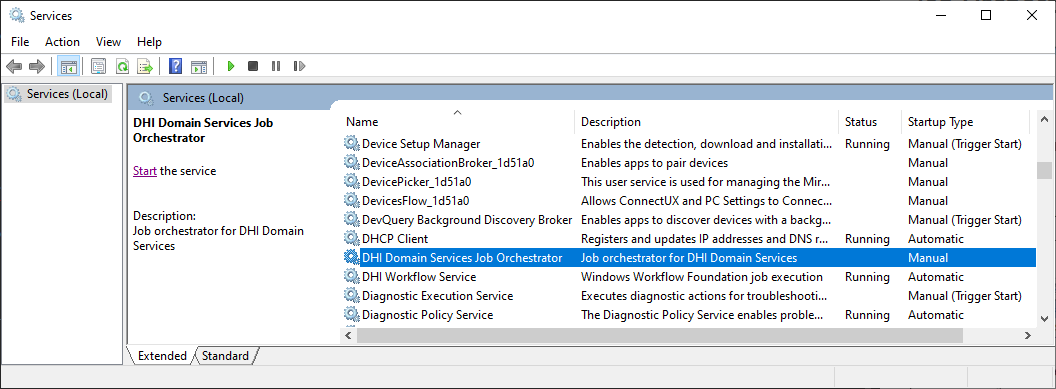
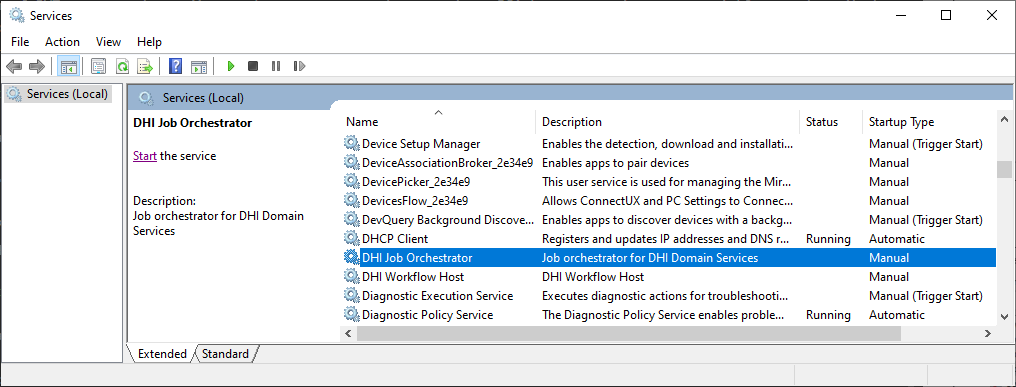
Renamed to DHI Job Orchestrator. Don't start Job Orchestrator on installation. Updated Readme.md

diff --git a/Source/JobOrchestratorWinService/WindowsBackgroundService.cs b/Source/JobOrchestratorWinService/WindowsBackgroundService.cs
@@ -21,7 +21,7 @@ namespace JobOrchestratorWinService
             _logger.Log(new LogEntry(cleaningLogLevel, $"Scalars are {scalarsStatus}.", ServiceName));
         }
 
-        public static string ServiceName => "DHI Domain Services Job Orchestrator";
+        public static string ServiceName => "DHI Job Orchestrator";
 
         public override Task StartAsync(CancellationToken cancellationToken)
         {

diff --git a/README.md b/README.md
@@ -19,7 +19,7 @@ The Authorization Server in **AuthorizationServer.sln** uses a pair of RSA signi
 
 To build and run the Authorization Server, use the **BuildAndRun.bat** file. 
 
-## Web Server
+### Web Server
 
 The web API is configured with a PostgreSQL database. You have to create an environment variable called "PostgreSqlConnectionString" with the connection string.
 
@@ -27,9 +27,11 @@ The web API is configured with a PostgreSQL database. You have to create an envi
 
 To build and run the Web Server in **WebApi.sln**, use the **BuildAndRun.bat** file.
 
-## Job Orchestrator
+### Job Orchestrator
 
-To install the Job Orchestrator in **JobOrchestratorWinService.sln** as a Windows Service run **Install.bat**
+Publish the Job Orchestrator in **JobOrchestratorWinService.sln** using the [`dotnet publish`](https://docs.microsoft.com/en-us/dotnet/core/tools/dotnet-publish) command (or use the **Publish...** wizard from within Visual Studio).
+
+From the publish folder, run **Install.bat** to install the Job Orchestrator as a Windows Service.
 
 > NOTE: Remember to force administrator privileges.
 
@@ -37,21 +39,23 @@ Once installed, the Job Orchestrator is managed (start/stop) through the standar
 
 ![](Images/windows-services.png)
 
-The Job Orchestrator is configured to log to the **Event Viewer**:
+> NOTE: The Job Orchestator cannot be successfully started before the [Authorization Server](#authorization-server) and the [Web Server](#web-server) is running.
+
+The Job Orchestrator is configured to log to the Windows **Event Viewer**:
 
 ![](Images/event-viewer.png)
 
-## Job Host
+### Job Host
 
-Your own machine will be acting as the job host. 
+Your own machine will be acting as the job host. The sample application is configured to execute [DHI Workflows](https://github.com/DHI/Workflow#readme) using the [Workflow Host](https://www.nuget.org/packages/DHI.Workflow.Host) package.
 
-Build and run the **DeployWorkflowService** console application in **workflow.sln**. This will create a "Deployment" folder (in the debug or release folder).
+Publish the **WorkflowHostWinService** project in **Workflows.sln** using the [`dotnet publish`](https://docs.microsoft.com/en-us/dotnet/core/tools/dotnet-publish) command (or use the **Publish...** wizard from within Visual Studio).
 
-From here you must run **DHI.Workflow.Service.WinSvcHost.Install.bat**.
+From the publish folder, run **Install.bat** to install the Workflow Host as a Windows Service.
 
 > NOTE: Remember to force administrator privileges.
 
-Once installed, the workflow service is managed (start/stop) through the standard **Services** application (see above).
+Once installed, the Workflow Host is managed (start/stop) through the standard **Services** application (see above).
 
 To be able to execute the **RunMIKE11Model** workflow, you need to have **MIKEZero** installed and configured with a valid licensee.
 
